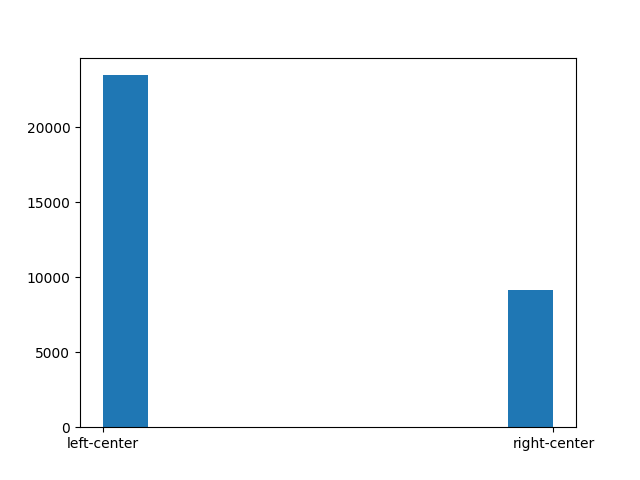
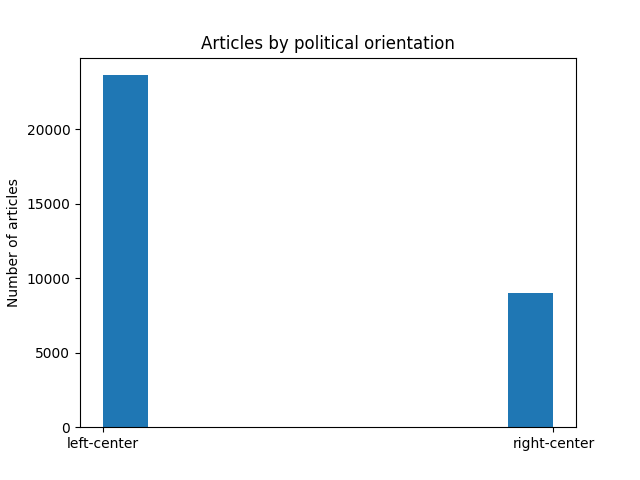
fix plots, add labels

diff --git a/dataAnalysis.py b/dataAnalysis.py
@@ -1,22 +1,44 @@
 from dataParser import read, mergeCopEditions
 import matplotlib.pyplot as plt
+import numpy as np
+import sys
+
+    
+def histogramPoliticalOrientation(orientations):
+    fig, ax = plt.subplots()
+    ax.set_ylabel('Number of articles')   
+    ax.set_title('Articles by political orientation')
+    plt.hist(orientations)
+    fig.savefig('figures/hist_political_orientation.png')
+    
+def barChartNewspaper(articles):
+    # 'Mail & Guardian' 'Sydney Morning Herald (Australia)'
+    #  'The Age (Melbourne, Australia)' 'The Australian' 'The Hindu'
+    #  'The New York Times' 'The Times (South Africa)'
+    #  'The Times of India (TOI)' 'The Washington Post'
+
+    tuples = [ (article['newspaper'], article['political_orientation']) for article in articles]
+    sorted_newspapers = np.unique(tuples, axis=0, return_counts=True)
+
+    labels_left = [ newspaper[0] for (newspaper, count) in zip(sorted_newspapers[0], sorted_newspapers[1]) if newspaper[1] == 'left-center']
+    values_left = [ count for (newspaper, count) in zip(sorted_newspapers[0], sorted_newspapers[1]) if newspaper[1] == 'left-center']
+    labels_right = [ newspaper[0] for (newspaper, count) in zip(sorted_newspapers[0], sorted_newspapers[1]) if newspaper[1] == 'right-center']
+    values_right = [ count for (newspaper, count) in zip(sorted_newspapers[0], sorted_newspapers[1]) if newspaper[1] == 'right-center']
+
+    fig, ax = plt.subplots()
+    plt.xticks(rotation=30, ha='right')
+    ax.bar(labels_left, values_left, 0.35, label='left-center')
+    ax.bar(labels_right, values_right, 0.35, label='right-center')
+
+    ax.set_ylabel('Number of articles')
+    ax.set_title('Articles by political orientation per newspaper')
+    ax.legend()
+    fig.savefig('figures/newspaper_bar_chart', bbox_inches="tight")
 
 # debug to run only this file
 if __name__ == "__main__":
     data = read()
+    articles = mergeCopEditions(data)
 
-    # print(data[0]['metadata'])
-    # print('-------------------------')
-    # print(data[0]['articles'][0]['newspaper'])
-    # print(data[0]['articles'][0]['headline'])
-    # print(data[0]['articles'][0]['classification'])
-    # print('-------------------------')
-    # print(data[0]['orientations'][0])
-
-    articles, orientations = mergeCopEditions(data)
-    # for i in range(1,30):
-    #     print(articles[i]['newspaper'])
-    #     print(orientations[i])
-
-    plt.hist(orientations)
-    plt.show()
+    histogramPoliticalOrientation([article['political_orientation'] for article in articles])
+    barChartNewspaper(articles)
